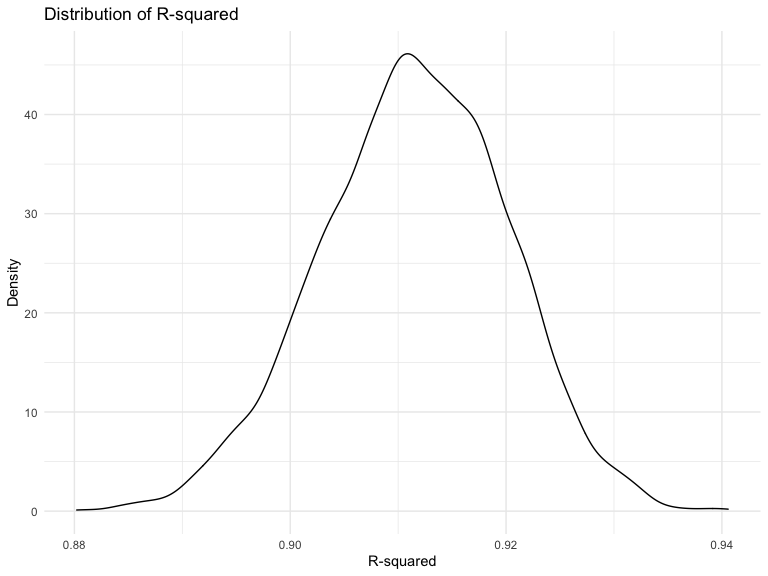
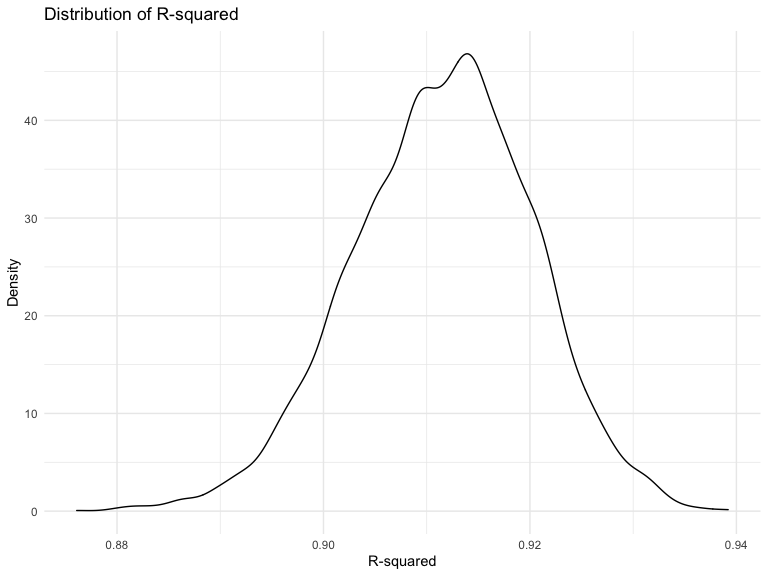
set seed

diff --git a/p8105_hw6_th2533.md b/p8105_hw6_th2533.md
@@ -356,16 +356,16 @@ bootstrap_results %>%
     ## # A tibble: 10,000 x 1
     ##    r.squared
     ##        <dbl>
-    ##  1     0.917
-    ##  2     0.917
-    ##  3     0.926
-    ##  4     0.926
-    ##  5     0.923
-    ##  6     0.923
-    ##  7     0.912
-    ##  8     0.912
-    ##  9     0.925
-    ## 10     0.925
+    ##  1     0.915
+    ##  2     0.915
+    ##  3     0.921
+    ##  4     0.921
+    ##  5     0.911
+    ##  6     0.911
+    ##  7     0.921
+    ##  8     0.921
+    ##  9     0.919
+    ## 10     0.919
     ## # … with 9,990 more rows
 
 ``` r
@@ -378,8 +378,8 @@ ggplot(aes(x = r.squared)) + geom_density()+
 
 <img src="p8105_hw6_th2533_files/figure-gfm/unnamed-chunk-14-1.png" width="90%" />
 
-The 95% CI limit for adjusted R square is between 0.8939011 and
-0.9275567
+The 95% CI limit for adjusted R square is between 0.8938429 and
+0.9277504
 
 ``` r
 bootstrap_logestimates = bootstrap_results %>% 
@@ -403,4 +403,4 @@ ggplot(aes(x = log_coef)) + geom_density()+
 ```
 
 <img src="p8105_hw6_th2533_files/figure-gfm/unnamed-chunk-15-1.png" width="90%" />
-The 95% CI limit for logcoef is between 1.9641208 and 2.0592011
+The 95% CI limit for logcoef is between 1.9645945 and 2.0584628
